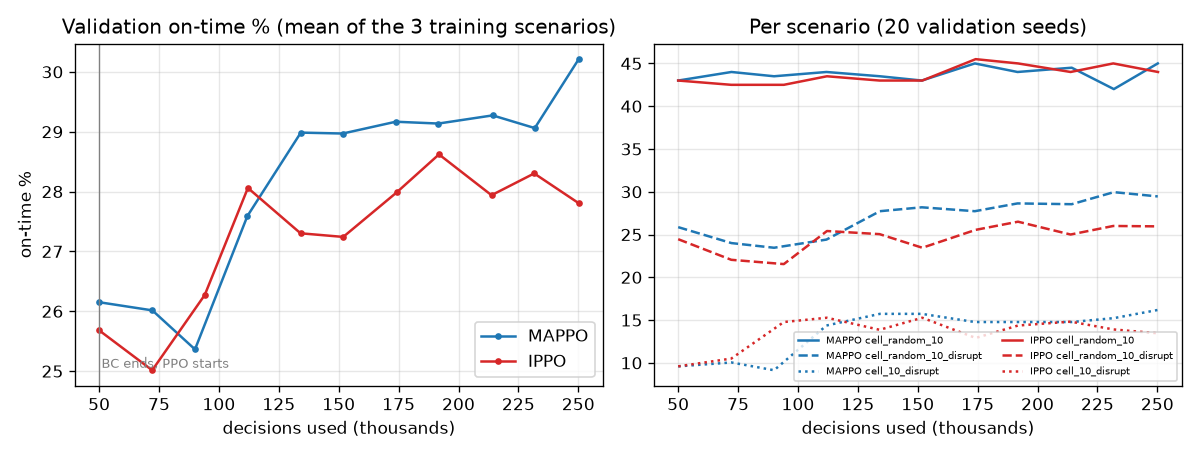
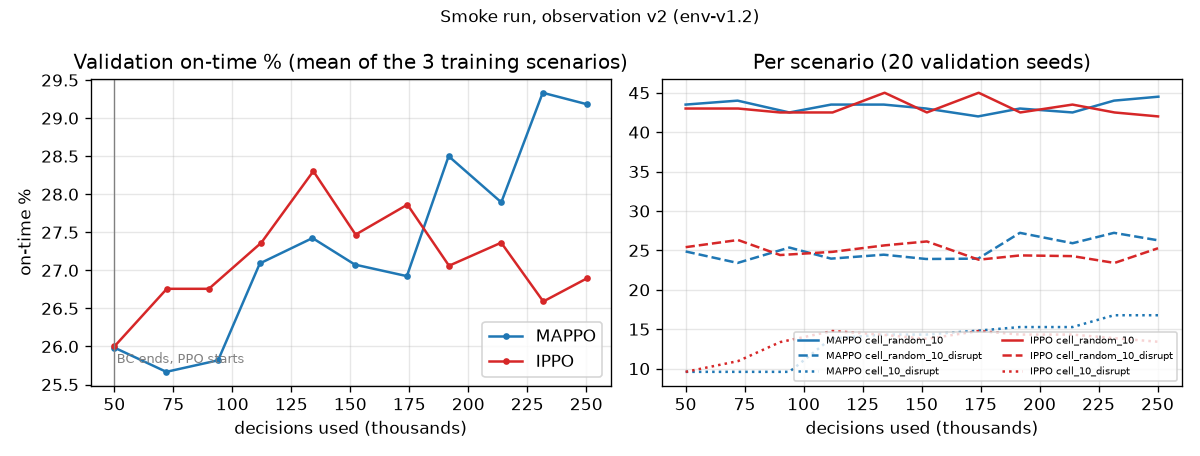
docs(ppo): v2 smoke checks, team decisions and full-run plan
Both smoke checks pass on observation v2 (env-v1.2). Record the decisions
(cell_10 held out, 10M decisions x 3 seeds, GP moves to env-v1.2), the
commands for the six full runs on this PC and the measured run-time estimate.

diff --git a/docs/method_ppo.md b/docs/method_ppo.md
@@ -1,7 +1,11 @@
 # Method: PPO family (IPPO and MAPPO)
 
 Spec §11.3, track 1. Branch `PPO-training` (the spec suggests `method/ppo`), started from
-`env-v1` and merged with `env-v1.1`, which adds the coordinator-outage scenarios. Code is in
+`env-v1` and merged with `env-v1.1` and `env-v1.2`:
+- `env-v1.1` adds the coordinator-outage scenarios.
+- `env-v1.2` adds observation v2 with the task feature `best_free_bid`, and fixes the auction.
+
+**Everything from the full runs on is trained and evaluated on observation v2.** Code is in
 `src/som/methods/ppo/`, the training script is `scripts/train_ppo.py` and tests are in
 `tests/methods/ppo/`.
 
@@ -10,7 +14,7 @@ Spec §11.3, track 1. Branch `PPO-training` (the spec suggests `method/ppo`), st
 - **One code path, one switch.** `--critic local` gives IPPO: the critic sees the robot's own
   observation, so nothing is centralized even in training. `--critic central` gives MAPPO: the
   critic sees that observation plus the env's critic state (every robot's observation and the
-  order matrix, 1496 dims). **The actor is identical in both and sees only its own
+  order matrix, 1528 dims in obs v2). **The actor is identical in both and sees only its own
   observation**, so execution is decentralized either way. The evaluation harness passes
   `global_state=None`, which is the C1 guarantee.
 - **Shared parameters.** One actor serves every robot. The observation has a fixed size for 2,
@@ -61,96 +65,100 @@ Spec §11.3, track 1. Branch `PPO-training` (the spec suggests `method/ppo`), st
 - **Training mix:** `cell_random_10`, `cell_random_10_disrupt` and `cell_10_disrupt`, chosen
   uniformly per episode, on training seeds 0–9999. The policy is evaluated on every scenario,
   including ones it never trained on.
+- **`cell_10` is held out on purpose** (decision 2026-11-10).
+  - It is a single fixed schedule: the abstract's 10 orders, with no noise and no disruptions.
+    Every seed is the same episode.
+  - Training on it would teach the policy one timetable rather than a dispatching skill.
+  - It is also a fragile yardstick. Its due dates were calibrated so that the best of 21 rules
+    gets 50%, and only FIFO/EDD does. The other rules get 20–40%, and several orders miss by a
+    few seconds.
+  - It stays in the evaluation as a generalisation check, reported as held out.
 - **Selection.** Every 20,000 decisions the greedy actor runs on the 20 validation seeds
   (10000–10019) of every training scenario. The best mean on-time % (ties broken by lower
   tardiness) is saved as `best/actor.pt`, and that checkpoint is the one evaluated on the test
   seeds.
-- **Budget (spec §11.2).** 1.5M env decisions per run. Demonstrations count toward the budget;
-  validation runs do not.
+- **Budget.** The spec (§11.2) caps a run at 1.5M env decisions. The team raised it to
+  **10M per run for both PPO and GP** (decision 2026-11-10), so the comparison stays equal.
+  Demonstrations count toward the budget; validation runs do not.
+  - For 10M runs, validation runs every 100k decisions instead of 20k: 100 checkpoints, not 500.
+  - The learning-rate and entropy decay stretch over the whole budget.
 
 ## Smoke checks (this PC: Ryzen 5 3600, one torch thread per run)
 
-Full table: `results/ppo/smoke_test_seeds.md`. Learning curves:
-`results/ppo/smoke_learning_curves.png`. All numbers are on the 100 test seeds.
+Full tables, including the superseded observation-v1 checks: `results/ppo/smoke_test_seeds.md`.
+Learning curves: `results/ppo/smoke_learning_curves.png`. All numbers are on the 100 test seeds,
+observation v2 (`env-v1.2`).
 
-1. **Behaviour cloning reaches the teacher.**
-   - The clone matches 100% of the 50k demonstrated decisions.
-   - On `cell_random_10` it gets 49.5% on time against BOTTLENECK/SPT's 49.7%, and 93 of 100
-     episodes are identical.
-   - The remaining differences come from states the teacher never visited in the
-     demonstrations.
+1. **Behaviour cloning reaches the teacher.** The clone matches 100% of the 50k demonstrated
+   decisions. On `cell_random_10` it gets 49.5% on time against BOTTLENECK/SPT's 49.7%. (On
+   observation v1, 93 of 100 episodes were identical to the teacher's.)
 2. **A short PPO run improves on its start.** The run used 250k decisions: 50k of behaviour
-   cloning plus 200k of PPO. MAPPO took 6.4 minutes and IPPO 4.9.
+   cloning plus 200k of PPO. MAPPO took 6.8 minutes and IPPO 5.3.
 
-   | Scenario | Best rule | BC start | MAPPO smoke | IPPO smoke | MAPPO − BC | IPPO − BC |
-   |---|---|---|---|---|---|---|
-   | `cell_random_10` | 49.7 | 49.5 | 51.3 | 50.3 | +1.8 (p = 0.016) | +0.8 (p = 0.29) |
-   | `cell_random_10_disrupt` | 26.8 | 25.9 | 28.4 | 26.6 | +2.5 (p = 0.004) | +0.7 (p = 0.40) |
-   | `cell_10_disrupt` | 15.9 | 10.4 | 16.6 | 15.6 | +6.2 (p < 0.001) | +5.1 (p < 0.001) |
+   | Scenario | Best rule | Best auction | BC start | MAPPO smoke | IPPO smoke | MAPPO − BC | IPPO − BC |
+   |---|---|---|---|---|---|---|---|
+   | `cell_random_10` | 49.7 | 51.9 | 49.5 | 50.0 | 51.4 | +0.5 (p = 0.49) | +1.9 (p = 0.065) |
+   | `cell_random_10_disrupt` | 26.8 | 26.4 | 26.0 | 28.5 | 28.4 | +2.5 (p = 0.005) | +2.4 (p = 0.012) |
+   | `cell_10_disrupt` | 15.9 | 11.5 | 10.2 | 17.1 | 14.9 | +6.9 (p < 0.001) | +4.7 (p < 0.001) |
 
-   The smoke MAPPO was also run on the scenarios it did not train on. It was at or above the
-   best rule on every one except `cell_10`:
+   - **Both methods improve significantly** on the two disruption scenarios.
+   - On nominal `cell_random_10` the gain is not yet significant after 200k PPO decisions.
+   - The fixed auction (`env-v1.2`) is now the strongest baseline on `cell_random_10`, at
+     51.9%. The full runs have to beat it there, not just the best rule.
 
-   | Scenario | Smoke MAPPO | Best rule |
-   |---|---|---|
-   | `cell_random_20` | 48.5 | 47.8 |
-   | `cell_random_30` | 41.4 | 38.6 |
-   | `cell_stream` | 45.1 | 43.2 |
-   | `cell_random_10_flex` | 41.9 | 40.3 |
-   | `cell_random_10` with 3 robots | 35.9 | 34.7 |
-   | `cell_random_10` with 2 robots | 20.9 | 21.0 |
-   | `cell_10` | 30.0 | 50.0 (FIFO/EDD) |
+**Speed.** A single run alone does about 1,100 decisions/s. With six running at once, see the
+full-runs section below.
 
-   `cell_10` is one fixed schedule on which only FIFO/EDD reaches 50%; other rules get 20–40%.
+## Full runs on Daniel's PC (decision 2026-11-10)
 
-**Speed.** One run collects and trains at about 1,100 decisions/s when the machine is idle, and
-about 650/s when it shares the CPU. A full 1.5M-decision run takes about 25–45 minutes.
+IPPO and MAPPO, 3 seeds each, 10M decisions per run, all 6 at once (one core per run). The
+Xeon runs the GP track. Windows PowerShell, from the repo root on branch `PPO-training`:
 
-## Running on the Xeon (Ubuntu 22.04, W3-2423, 6 cores)
+```powershell
+# Start all 6 runs. They are hidden background processes, so closing the terminal does not
+# stop them. Logs go to runs\ppo\<RUN>.log; each run also writes runs\ppo\<RUN>\train.log.
+New-Item -ItemType Directory -Force runs\ppo | Out-Null
+foreach ($s in 0, 1, 2) {
+  foreach ($c in "central", "local") {
+    $m = if ($c -eq "central") { "MAPPO" } else { "IPPO" }
+    Start-Process -WindowStyle Hidden -FilePath .venv\Scripts\python.exe `
+      -ArgumentList "scripts/train_ppo.py --critic $c --seed $s --budget 10000000 --eval-every 100000" `
+      -RedirectStandardOutput "runs\ppo\${m}_s$s.log" -RedirectStandardError "runs\ppo\${m}_s$s.err"
+  }
+}
 
-```bash
-# 1. Set up once (about 10 min)
-sudo apt install python3.10-venv tmux
-git clone git@github.com:daniel-lz26/Design_is_all_MARL.git && cd Design_is_all_MARL
-git checkout PPO-training
-python3 -m venv .venv && source .venv/bin/activate
-pip install torch --index-url https://download.pytorch.org/whl/cpu
-pip install -r requirements-dev.txt && pip install -e .
-python -m pytest -q                       # 195 tests, about 2-3 min
+# Watch progress: one validation line every 100k decisions per run
+Get-Content runs\ppo\MAPPO_s0.log -Tail 5 -Wait
 
-# 2. Reproduce the env-v1 baselines first (about 10-15 min): every rule and auction on every
-#    env-v1 scenario, and the central scheduler on cell_10. Then compare seed by seed with
-#    the committed results/.
-python scripts/evaluate_cell.py --workers 6 --out runs/repro \
-  --scenarios cell_10 cell_10_raw cell_10_disrupt cell_random_10 cell_random_10_disrupt \
-              cell_random_10_flex cell_random_20 cell_random_30 cell_stream \
-  --policy $(python -c "from som.policies.registry import REGISTRY, family; print(' '.join(n for n in REGISTRY if family(n) in 'AB'))")
-python scripts/evaluate_cell.py --policy CENTRAL_STATIC CENTRAL_REPLAN --scenarios cell_10 \
-  --out runs/repro --workers 2
-python -m som.methods.ppo.check_repro runs/repro    # must end "0 differ, 0 missing"
+# Stop everything if needed (only the training processes)
+Get-CimInstance Win32_Process -Filter "Name='python.exe'" |
+  Where-Object { $_.CommandLine -like "*train_ppo.py*" } |
+  ForEach-Object { Stop-Process -Id $_.ProcessId }
 
-# 3. Train IPPO and MAPPO, 3 seeds each, all 6 at once (about 45-60 min; one core per run)
-tmux new -s ppo                           # detach with Ctrl-b d, come back with: tmux attach -t ppo
-mkdir -p runs/ppo
-for s in 0 1 2; do
-  nohup python scripts/train_ppo.py --critic central --seed $s > runs/ppo/MAPPO_s$s.log 2>&1 &
-  nohup python scripts/train_ppo.py --critic local   --seed $s > runs/ppo/IPPO_s$s.log 2>&1 &
-done
-tail -f runs/ppo/*.log                    # one validation line every 20k decisions
-
-# 4. Pick the best seed per method on validation, then evaluate on every scenario's test seeds
-#    plus 2 and 3 robots (about 15-20 min). Writes results/IPPO, results/MAPPO,
-#    results/ppo/seeds/ and results/ppo/selection.json, and refreshes results/summary.md.
-python -m som.methods.ppo.finalize --workers 6
-
-# 5. Commit the results and push the branch
-git add results && git commit -m "docs(results): add IPPO and MAPPO results (3 seeds each)"
+# When all 6 have a summary.json: pick the best seed per method on validation, evaluate on
+# every scenario's test seeds plus 2 and 3 robots, and refresh results/summary.md
+.venv\Scripts\python.exe -m som.methods.ppo.finalize --workers 6
+git add results reports docs; git commit -m "docs(results): add IPPO and MAPPO results (10M decisions, 3 seeds each)"
 git push origin PPO-training
 ```
 
-Set git's name and email on the Xeon before the first commit (`git config user.name`,
-`git config user.email`). Model files stay in `runs/`, which git ignores. Copy
-`runs/ppo/*/best/` somewhere safe, or a teammate cannot re-evaluate them.
+**Measured speed** with all 6 running at once on the Ryzen 5 3600 (6 cores / 12 threads),
+while the PC was also running central-scheduler jobs:
+
+| Method | Speed per run | 10M decisions |
+|---|---|---|
+| MAPPO | 610–780 decisions/s | about 3.5–4.5 h |
+| IPPO | 1,000–1,300 decisions/s | about 2–3 h |
+
+- Validation every 100k decisions adds about 10–15 min per run.
+- **All six finish in about 4–5 h** (MAPPO is the slowest); finalize adds about 10 min.
+- The PC is fully busy throughout.
+
+**On another machine** (for example the Xeon): set up as in the README's Linux section and
+check the baselines reproduce first:
+- Run `scripts/evaluate_cell.py` on the rules and auctions with `--out runs/repro`.
+- Then run `python -m som.methods.ppo.check_repro runs/repro`, which must end "0 differ, 0 missing".
+- Launch with the same `train_ppo.py` arguments, using `nohup ... &` in place of `Start-Process`.
 
 ## Results
 

diff --git a/reports/ppo/STATUS.md b/reports/ppo/STATUS.md
@@ -11,45 +11,65 @@ the robots learn which order to pick up next by trial and error in the simulated
 - **Behaviour cloning (BC)** means first copying the best hand-written rule, so learning starts
   from a sensible policy instead of random moves.
 
+## Decisions (2026-11-10)
+1. **`cell_10` stays out of the training mix** and is reported as a held-out scenario.
+   - It is a single fixed schedule: the same 10 orders, with no randomness and no breakdowns, so
+     every run is the identical episode.
+   - Training on it would teach one timetable, not a dispatching skill.
+   - Its 50% target comes from the single best of 21 rules (FIFO/EDD). The other rules get
+     20–40%, and several orders miss their due time by only a few seconds.
+2. **The auction now lets only free robots bid** (on `main`, tag `env-v1.2`).
+   - The old auction is kept as `AUCTION_v0`. In it, busy robots also bid, so a free robot
+     often sat idle waiting for a busy one: robots were idle 36–40% of the time against about
+     30% for the rules.
+   - The fix needed one new piece of information in each robot's view, the best bid among
+     *free* robots, so the observation went from version 1 to version 2.
+3. **`main` and the `env-v1.1` and `env-v1.2` tags** are pushed once the outage baselines finish.
+4. **Full runs: 10M decisions per run, 3 seeds each, for both PPO and GP.** The spec's limit was
+   1.5M; the team raised it for both tracks so the comparison stays fair. PPO runs on Daniel's
+   PC (IPPO and MAPPO, 6 runs) and GP on the Xeon.
+5. **GP must also move to `env-v1.2`** (observation v2) before its full runs. Anything trained on
+   observation v1 can no longer be compared: a v1 PPO checkpoint is refused by the code.
+
 ## Done
-- The PPO trainer works on the new Smart Assembly Cell simulation. IPPO and MAPPO share one code
-  path; a single switch picks between them.
-- **Smoke check 1 passed.** BC copies the best rule (BOTTLENECK/SPT): 49.5% on time against the
-  rule's 49.7% on `cell_random_10`.
-- **Smoke check 2 passed.** A short PPO run (250k decisions, about 6 minutes) improves on the BC
-  start on all three training scenarios.
-- **On `main`:**
-  - Added the coordinator-outage scenarios (tag `env-v1.1`). These show what happens to the
-    central scheduler when its computer goes down.
-  - Checked the auction baseline. It has no bug; it is a real weakness: free robots sit idle
-    waiting for busy robots that out-bid them.
+- The PPO trainer works on the cell simulation. IPPO and MAPPO share one code path; one switch
+  picks between them.
+- On `main`:
+  - Coordinator-outage scenarios (`env-v1.1`).
+  - Auction fix and observation v2 (`env-v1.2`). Both auctions match a reference implementation
+    decision for decision.
+  - Every rule and both auctions re-run on `env-v1.2`. The rules reproduce env-v1 exactly
+    (24,300 episodes), and so does `AUCTION_v0` (4,500).
+- **Both smoke checks passed again on observation v2:**
+  - BC copies the best rule: 49.5% vs 49.7%.
+  - A short PPO run improves on the BC start, significantly on both disruption scenarios.
+- Run time measured: **about 4–5 hours** for the six 10M runs on Daniel's PC.
 
 ## Running now
-- Baselines (rules, auction, central scheduler) on the 4 outage scenarios. This runs on `main`
-  on Daniel's PC.
+- Outage-scenario baselines (central scheduler) on `env-v1.1`; about 4 jobs left.
+- Next: the six 10M PPO runs start once that finishes, so the two jobs don't compete for CPU.
 
 ## Latest results
-On-time % on 100 test scenarios. Smoke-run numbers only: 250k decisions, against a 1.5M budget
-for the full runs.
+On-time % on 100 test scenarios, **observation v2, smoke run only** (250k decisions).
+- The "best auction" is the fixed one. It is now the strongest baseline on `cell_random_10`.
+- Full table, including the old v1 numbers:
+  [smoke_test_seeds.md](../../results/ppo/smoke_test_seeds.md).
 
-| Scenario | Best rule | MAPPO (smoke) | vs best rule | IPPO (smoke) | vs best rule |
-|---|---|---|---|---|---|
-| cell_random_10 | 49.7 | 51.3 | +1.6 | 50.3 | +0.6 |
-| cell_random_10_disrupt | 26.8 | 28.4 | +1.6 | 26.6 | −0.2 |
-| cell_10_disrupt | 15.9 | 16.6 | +0.7 | 15.6 | −0.3 |
+| Scenario | Best rule | Best auction | MAPPO (smoke) | IPPO (smoke) |
+|---|---|---|---|---|
+| cell_random_10 | 49.7 | 51.9 | 50.0 | 51.4 |
+| cell_random_10_disrupt | 26.8 | 26.4 | 28.5 | 28.4 |
+| cell_10_disrupt | 15.9 | 11.5 | 17.1 | 14.9 |
 
-Plots: [learning curves](../../results/ppo/smoke_learning_curves.png). Table with p-values:
-[smoke_test_seeds.md](../../results/ppo/smoke_test_seeds.md).
+Plots: [learning curves](../../results/ppo/smoke_learning_curves.png).
 
 ## Blockers / decisions needed
 - None blocking.
-- **Decision for the team:** the full runs train on a mix of random 10-order orders, random 10
-  orders with disruptions, and the fixed 10 orders with disruptions. Say so if `cell_10` itself
-  should be in the mix: the smoke model gets 30% there against FIFO/EDD's 50%.
+- **GP track:** merge `main` (`env-v1.2`) before starting its 10M runs; see decision 5.
 
 ## Next steps
-1. On the Xeon PC: reproduce the baseline numbers, then train IPPO and MAPPO with 3 seeds each
-   (commands in [docs/method_ppo.md](../../docs/method_ppo.md#running-on-the-xeon-ubuntu-2204-w3-2423-6-cores)).
-2. Pick the best seed per method on the validation scenarios, evaluate on every scenario, and
-   compare with the rules, the auction and the central scheduler.
+1. Pass both smoke checks on observation v2, then estimate the run time and start the 6 full
+   PPO runs on Daniel's PC.
+2. When they finish: pick the best seed per method on validation, evaluate on every scenario,
+   and compare with the rules, both auctions and the central scheduler.
 3. Fleet-size and outage comparisons for the presentation (Nov 21).

diff --git a/reports/ppo/2026-11-10.md b/reports/ppo/2026-11-10.md
@@ -1,33 +1,42 @@
 # PPO track, 2026-11-10
 
 ## What happened
-- Built the reinforcement-learning trainer for the new cell simulation. One code path gives
-  both IPPO (each robot learns on its own) and MAPPO (a shared training-time "coach" sees the
-  whole cell). In both, each robot decides from its own view when it runs.
-- Warm-started the robots by copying the best hand-written rule ("behaviour cloning"). The
-  copy is as good as the rule: 49.5% vs 49.7% of orders on time.
-- Ran a short training run (about 6 minutes). MAPPO improved on its starting point on all
-  three training scenarios and already beats the best rule on them.
-- On `main`: added scenarios that test the central scheduler losing its coordinator computer.
-  Also confirmed that the auction baseline has no bug; it loses because free robots wait for
-  busy robots that out-bid them.
+- Built the reinforcement-learning trainer for the new cell simulation.
+  - One code path gives both IPPO (each robot learns on its own) and MAPPO (a shared
+    training-time "coach" sees the whole cell).
+  - In both, each robot decides from its own view when it runs.
+- Fixed the auction baseline on `main`. Robots that are busy no longer bid, so free robots stop
+  waiting for them. The old version is kept as `AUCTION_v0`. The fix makes the auction the
+  strongest simple baseline on most random scenarios: 51.9% vs 49.7% for the best rule on
+  `cell_random_10`.
+- The fix needed one new piece of information in each robot's view ("observation v2", tag
+  `env-v1.2`). The PPO smoke checks were redone on v2, and both passed again:
+  - Copying the best rule (behaviour cloning) gives 49.5% vs the rule's 49.7%.
+  - A 6-minute training run improves on that start.
+- Added scenarios where the central scheduler's coordinator computer goes down (`env-v1.1`).
+- Team decisions:
+  - Full runs of 10M decisions × 3 seeds for both PPO and GP.
+  - `cell_10` stays out of training and is reported as held out.
+  - GP moves to `env-v1.2`.
 
 ## Results so far
-On-time % over 100 test scenarios. Short smoke run only; the full runs are next.
+On-time % over 100 test scenarios. Short smoke run only (observation v2); the full runs are next.
 
-| Scenario | Best rule | MAPPO (smoke) | vs best rule |
+| Scenario | On-time % (MAPPO smoke) | vs best rule | vs best auction |
 |---|---|---|---|
-| cell_random_10 (random orders) | 49.7 | 51.3 | +1.6 |
-| cell_random_10_disrupt (with breakdowns) | 26.8 | 28.4 | +1.6 |
-| cell_10_disrupt (fixed orders, breakdowns) | 15.9 | 16.6 | +0.7 |
+| cell_random_10 (random orders) | 50.0 | +0.3 | −1.9 |
+| cell_random_10_disrupt (with breakdowns) | 28.5 | +1.7 | +2.1 |
+| cell_10_disrupt (fixed orders, breakdowns) | 17.1 | +1.2 | +5.6 |
 
 Learning curves: [results/ppo/smoke_learning_curves.png](../../results/ppo/smoke_learning_curves.png)
 
 ## Blockers / decisions needed
 - No blockers.
-- Should the fixed 10-order scenario (`cell_10`) be added to the training mix? The smoke model
-  gets 30% on it, against the best rule's 50%.
+- The GP track must merge `main` (`env-v1.2`) before its 10M runs. Results on the old
+  observation can't be compared.
 
 ## Next steps
-- Full training on the Xeon PC: IPPO and MAPPO, 3 runs each, about 1 hour.
-- Evaluate the best run of each on every scenario and compare with all baselines.
+- Start the six 10M PPO runs (IPPO and MAPPO, 3 seeds each) on Daniel's PC. They take about
+  4–5 hours.
+- Then pick the best seed per method on validation, evaluate on every scenario and compare with
+  the rules, both auctions and the central scheduler.

diff --git a/results/ppo/smoke_test_seeds.md b/results/ppo/smoke_test_seeds.md
@@ -1,15 +1,29 @@
-# PPO smoke check (250k decisions: 50k behaviour cloning + 200k PPO)
+# PPO smoke checks (250k decisions: 50k behaviour cloning + 200k PPO)
 
 100 test seeds (20000-20099), on-time %. "BC start" is the behaviour-cloned actor before PPO.
-Differences are paired by seed with a bootstrap p-value. Trained on this PC (Ryzen 5 3600),
-one torch thread per run; MAPPO took 6.4 min, IPPO 4.9 min.
+Differences are paired by seed with a bootstrap p-value. One torch thread per run on Daniel's PC
+(Ryzen 5 3600), sharing the CPU with other jobs. Learning curves (v2):
+smoke_learning_curves.png.
+
+## Observation v2 (env-v1.2): current
+
+MAPPO took 6.8 min and IPPO 5.3 min.
+
+| Scenario | Best rule | Best auction | BC start | MAPPO smoke | IPPO smoke | MAPPO - BC | IPPO - BC |
+|---|---|---|---|---|---|---|---|
+| cell_random_10 | BOTTLENECK/SPT 49.7 | AUCTION/SPT 51.9 | 49.5 | 50.0 | 51.4 | +0.5 ± 1.3 (p=0.49) | +1.9 ± 2.0 (p=0.065) |
+| cell_random_10_disrupt | SPT/SPT 26.8 | AUCTION/SPT 26.4 | 26.0 | 28.5 | 28.4 | +2.5 ± 1.7 (p=0.005) | +2.4 ± 1.8 (p=0.012) |
+| cell_10_disrupt | SPT/EDD 15.9 | AUCTION/EDD 11.5 | 10.2 | 17.1 | 14.9 | +6.9 ± 1.4 (p<0.001) | +4.7 ± 1.4 (p<0.001) |
+
+Behaviour cloning on v2: 100% match on the training demonstrations; 49.5% vs the teacher's
+49.7% on cell_random_10.
+
+## Observation v1 (env-v1.1): superseded
+
+MAPPO took 6.4 min and IPPO 4.9 min. Best auction here is the old AUCTION (now AUCTION_v0).
 
 | Scenario | Best rule | BC start | MAPPO smoke | IPPO smoke | MAPPO - BC | IPPO - BC |
 |---|---|---|---|---|---|---|
 | cell_random_10 | BOTTLENECK/SPT 49.7 | 49.5 | 51.3 | 50.3 | +1.8 ± 1.5 (p=0.016) | +0.8 ± 1.4 (p=0.290) |
 | cell_random_10_disrupt | SPT/SPT 26.8 | 25.9 | 28.4 | 26.6 | +2.5 ± 1.7 (p=0.004) | +0.7 ± 1.6 (p=0.398) |
 | cell_10_disrupt | SPT/EDD 15.9 | 10.4 | 16.6 | 15.6 | +6.2 ± 1.6 (p<0.001) | +5.1 ± 1.4 (p<0.001) |
-
-Behaviour cloning alone (BOTTLENECK/SPT teacher, 50k decisions): 100% match on the training
-demonstrations; on cell_random_10 test seeds 49.5% vs the teacher's 49.7%, with 93 of 100
-episodes identical. Learning curves: smoke_learning_curves.png.
